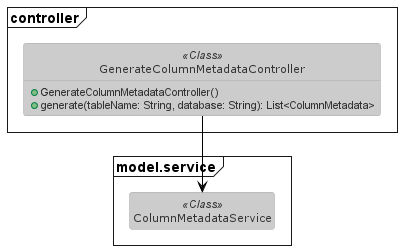
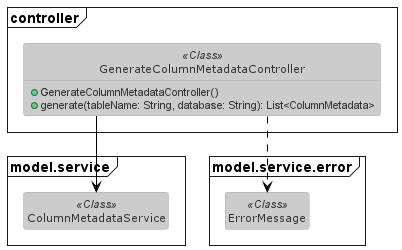
ajustes-javadocs

diff --git a/info-db/src/model/service/BeanService.java b/info-db/src/model/service/BeanService.java
@@ -47,7 +47,7 @@ public class BeanService {
      * @param columnMetadata
      * @return attributeNames
      */
-    public List<String> generateAttributeNames(List<ColumnMetadata> columnMetadata) {
+    private List<String> generateAttributeNames(List<ColumnMetadata> columnMetadata) {
         List<List<String>> separateNameAll = new ArrayList<>();
         for (int i = 0; i < columnMetadata.size(); i++) {
             List<String> separateName = new ArrayList<>(Arrays.asList(columnMetadata.get(i).getName().toLowerCase().split("_")));
@@ -78,7 +78,7 @@ public class BeanService {
      * @param columnMetadata
      * @return attributeTypes
      */
-    public List<String> generateAttributeTypes(List<ColumnMetadata> columnMetadata) {
+    private List<String> generateAttributeTypes(List<ColumnMetadata> columnMetadata) {
         List<String> attributeTypes = new ArrayList<>();
         for (int i = 0; i < columnMetadata.size(); i++) {
             switch (columnMetadata.get(i).getDatatype()) {
@@ -109,7 +109,7 @@ public class BeanService {
      * @param attributeTypes
      * @return importNames
      */
-    public List<String> generateImportNames(List<String> attributeTypes) {
+    private List<String> generateImportNames(List<String> attributeTypes) {
         List<String> importNames = new ArrayList<>();
         int countLocalDateImport = 0;
         for (int i = 0; i < attributeTypes.size(); i++) {
@@ -131,7 +131,7 @@ public class BeanService {
      * @param tableName
      * @return className
      */
-    public String generateClassName(String tableName) {
+    private String generateClassName(String tableName) {
         List<String> separateTableName = Arrays.asList(tableName.toLowerCase().split("_"));
         String className = "";
         for (int i = 0; i < separateTableName.size(); i++) {
@@ -152,7 +152,7 @@ public class BeanService {
      * @param attributeTypes
      * @return classContent
      */
-    public String generateClassContent(String className, List<String> importNames, List<String> attributeNames, List<String> attributeTypes) {
+    private String generateClassContent(String className, List<String> importNames, List<String> attributeNames, List<String> attributeTypes) {
         String classContent = "";
         classContent = classContent.concat("package model;\n\n");
         importNames.add("java.io.Serializable");
@@ -188,7 +188,7 @@ public class BeanService {
      * @param classContent
      * @return fileName
      */
-    public String generateFile(String className, String classContent) {
+    private String generateFile(String className, String classContent) {
         String fileName = className.concat(".java");
         FileWriter file;
         try {

diff --git a/info-db/src/model/service/error/ErrorMessage.java b/info-db/src/model/service/error/ErrorMessage.java
@@ -1,7 +1,10 @@
 package model.service.error;
 
 /**
- *
+ * Classe responsável por.
+ * <p><strong>Diagrama de Classes</strong>:</p>
+ * <p style="text-align: center"><img src="doc-files/ErrorMessage.png" alt="Diagrama de Classes da ErrorMessage"></p>
+ * 
  * @author Fábio Fernandes
  * @version 1.0
  */
